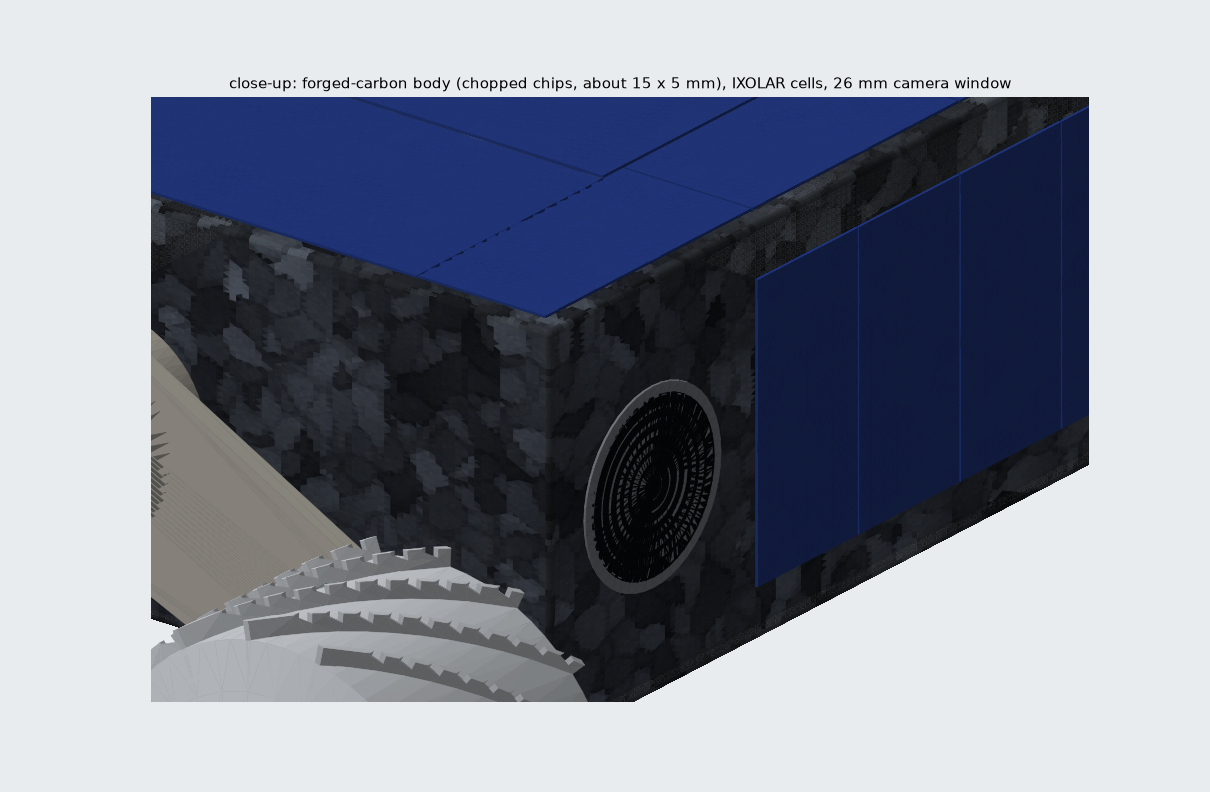
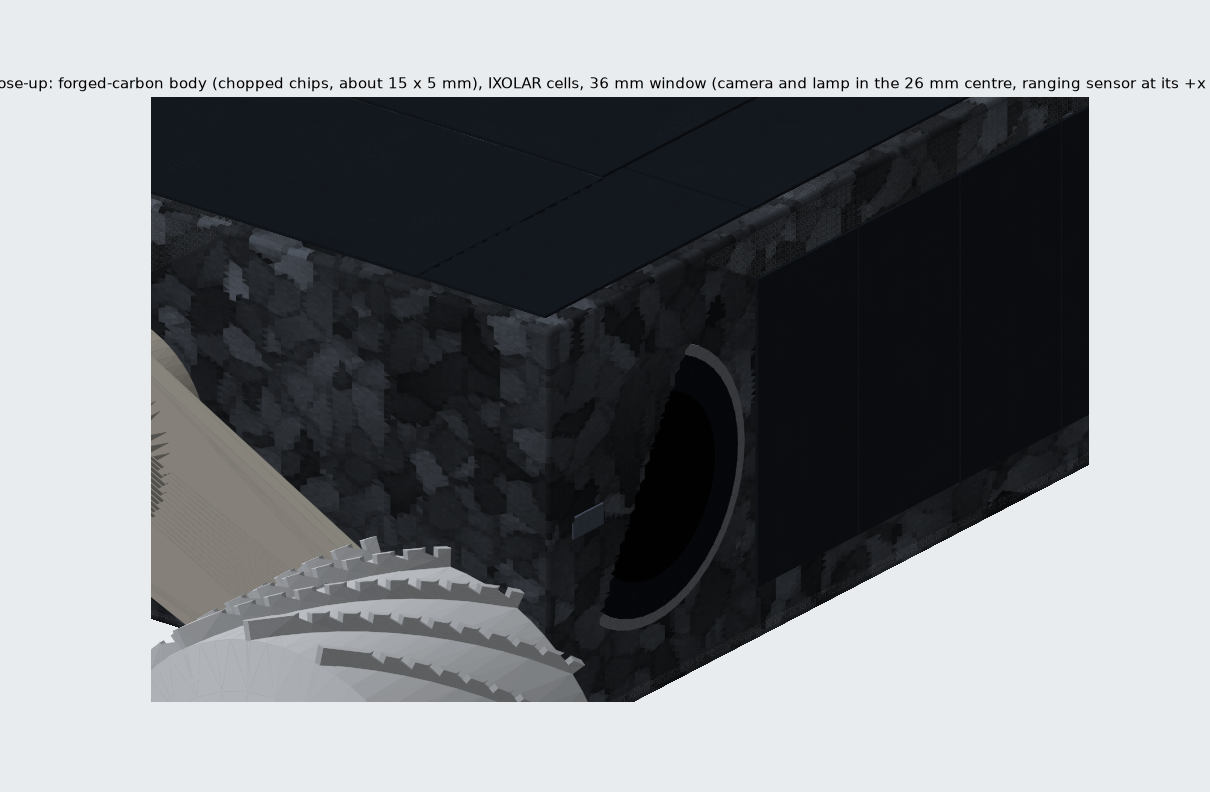
Concept render: 36 mm window with the ranging sensor, near-black cells, window close-up with labels

Changed region(s): [[0.0, 0.0909, 1.0, 0.8182]]

diff --git a/hardware/assembly/concept_render.py b/hardware/assembly/concept_render.py
@@ -94,10 +94,11 @@ def end_cells(face):
     return [slab(face, start + 21.8 * k, start + 21.8 * k + 21.5, 7.75, 52.25) for k in range(4)]
 
 
-BIAS = {"cells": 1.5, "bezel": 1.8, "glass": 2.0, "plug": 1.5}     # mm toward the viewer: the thin overlays on the body faces must sort after the body
+BIAS = {"cells": 1.5, "bezel": 1.8, "glass": 2.0, "plug": 1.5, "cam": 2.3, "tof": 2.6}     # mm toward the viewer: the thin overlays on the body faces must sort after the body
 
 
 TEX = {}
+UNIT = {"glass", "bezel", "cam", "tof"}      # overlays on the window: sorted as one unit each, so coplanar discs do not interleave
 
 
 def render(ax, meshes, el, az, title, lims=None):
@@ -111,7 +112,7 @@ def render(ax, meshes, el, az, title, lims=None):
             if nrm @ d < -0.05:
                 continue
             t = m.vertices[f]
-            polys.append(np.c_[t @ r, t @ u]); depth.append((t @ d).mean() + bias)
+            polys.append(np.c_[t @ r, t @ u]); depth.append(((t @ d).mean() if path.stem not in UNIT else (m.vertices @ d).mean()) + bias)
             cols.append(tuple(np.clip(base * (0.45 + 0.55 * max(0, nrm @ light)) * (1.0 if gains is None else gains[k]), 0, 1)))
     order = np.argsort(depth)
     ax.add_collection(matplotlib.collections.PolyCollection([polys[i] for i in order], facecolors=[cols[i] for i in order], edgecolors=[cols[i] for i in order], linewidths=0.3))
@@ -131,19 +132,23 @@ def main():
         struts = pv.mesh_of(HW / "strut/out/struts.step", tmp)
         wheels = pv.mesh_of(HW / "wheel/out/wheels.step", tmp)
     cells = fine(trimesh.util.concatenate(lid_cells("+z") + lid_cells("-z") + end_cells("+y") + end_cells("-y")))
-    glass = fine(disc("+y", 70 - (GAP + 13), 30, 13))
-    bezel = fine(disc("+y", 70 - (GAP + 13), 30, 14.6)); bezel.apply_translation((0, -0.12, 0))
+    wx = 70 - (GAP + 13)
+    glass = fine(disc("+y", wx, 30, 18.0))                                   # the shared cover glass: 36 mm across (the enlarged window, docs/hardware-spec.md section 5)
+    bezel = fine(disc("+y", wx, 30, 19.6)); bezel.apply_translation((0, -0.12, 0))
+    cam = fine(disc("+y", wx, 30, 13.0))                                      # the camera and lamp's own 26 mm view, behind the glass
+    tof = fine(slab("+y", wx + 14 - 3.2, wx + 14 + 3.2, 30 - 1.5, 30 + 1.5))  # the ranging sensor (6.4 x 3.0 mm), seen through the glass on the +x side
     plug = fine(slab("-y", -(70 - (GAP + 13)) - 13.5, -(70 - (GAP + 13)) + 13.5, 30 - 13.5, 30 + 13.5))
     parts = [(Path("body.step"), "#34383e", 0), (Path("struts.step"), "#b9b4aa", 0), (Path("wheels.step"), "#cdd1d6", 0),
-             (Path("cells.step"), "#233a86", 0), (Path("bezel.step"), "#7a7f86", 0), (Path("glass.step"), "#06080c", 0), (Path("plug.step"), "#3f4a46", 0)]
+             (Path("cells.step"), "#161a22", 0), (Path("bezel.step"), "#7a7f86", 0), (Path("glass.step"), "#0b0e13", 0), (Path("plug.step"), "#3f4a46", 0),
+             (Path("cam.step"), "#020304", 0), (Path("tof.step"), "#4a5262", 0)]
     pv.PARTS = parts
-    meshes = [body, struts, wheels, cells, bezel, glass, plug]
+    meshes = [body, struts, wheels, cells, bezel, glass, plug, cam, tof]
     TEX["body"] = forged_texture(body)
     fig, axs = plt.subplots(2, 2, figsize=(14, 10.5))
     render(axs[0, 0], meshes, 24, 38, title="camera end (+y), +x hub side, top lid")
     render(axs[0, 1], meshes, 24, 218, title="comms end (-y), -x hub side")
     render(axs[1, 0], meshes, 89.9, -90, title="top lid: IXOLAR cells in one pocket, camera end up")
-    render(axs[1, 1], meshes, 0, 90, title="from +y: the camera window and the end-face cells, struts at 25 deg")
+    render(axs[1, 1], meshes, 0, 90, title="from +y: the 36 mm window (camera centre, ranging sensor right of it) and the end-face cells")
     for a in axs.flat: a.set_facecolor("#e9ecef")
     fig.patch.set_facecolor("#e9ecef")
     plt.tight_layout()
@@ -151,8 +156,16 @@ def main():
     r, u, d = pv.view(24, 38)
     ctr = np.array([55.0, 70.0, 45.0])
     cx, cy = ctr @ r, ctr @ u
-    render(a2, meshes, 24, 38, "close-up: forged-carbon body (chopped chips, about 15 x 5 mm), IXOLAR cells, 26 mm camera window", lims=(cx - 62, cx + 62, cy - 40, cy + 40))
+    render(a2, meshes, 24, 38, "close-up: forged-carbon body (chopped chips, about 15 x 5 mm), IXOLAR cells, 36 mm window (camera and lamp in the 26 mm centre, ranging sensor at its +x edge)", lims=(cx - 62, cx + 62, cy - 40, cy + 40))
     f2.savefig(HW.parent / "docs" / "images" / "rover-concept-detail.png", dpi=110, facecolor=f2.get_facecolor())
+    f3, a3 = plt.subplots(figsize=(9, 7)); f3.patch.set_facecolor("#e9ecef"); a3.set_facecolor("#e9ecef")
+    r3, u3, d3 = pv.view(0, 90)
+    wp = np.array([wx, 70.0, 30.0]); cxx, cyy = wp @ r3, wp @ u3
+    render(a3, meshes, 0, 90, "the 36 mm window from +y: camera and lamp in the 26 mm centre, ranging sensor at the +x edge (viewer's left)", lims=(cxx - 42, cxx + 42, cyy - 30, cyy + 30))
+    sp = np.array([wx + 14.0, 70.0, 30.0]); a3.annotate("ranging sensor\n(VL53L5CX, 6.4 x 3 mm)", (sp @ r3, sp @ u3), (cxx - 26, cyy + 25), fontsize=9, arrowprops=dict(arrowstyle="->"), ha="center", bbox=dict(boxstyle="round,pad=0.25", fc="white", ec="0.5", alpha=0.92))
+    cp = np.array([wx, 70.0, 30.0 - 8]); a3.annotate("camera + lamp view\n(26 mm)", (cp @ r3, cp @ u3), (cxx, cyy - 25), fontsize=9, arrowprops=dict(arrowstyle="->"), ha="center", bbox=dict(boxstyle="round,pad=0.25", fc="white", ec="0.5", alpha=0.92))
+    gp = np.array([wx - 18.0 * 0.7, 70.0, 30.0 + 18.0 * 0.7]); a3.annotate("shared cover glass\n(36 mm)", (gp @ r3, gp @ u3), (cxx + 22, cyy + 25), fontsize=9, arrowprops=dict(arrowstyle="->"), ha="center", bbox=dict(boxstyle="round,pad=0.25", fc="white", ec="0.5", alpha=0.92))
+    f3.savefig(HW.parent / "docs" / "images" / "rover-concept-window.png", dpi=110, facecolor=f3.get_facecolor())
     out = HW.parent / "docs" / "images" / "rover-concept.png"
     fig.savefig(out, dpi=80, facecolor=fig.get_facecolor())
     print("wrote", out)
